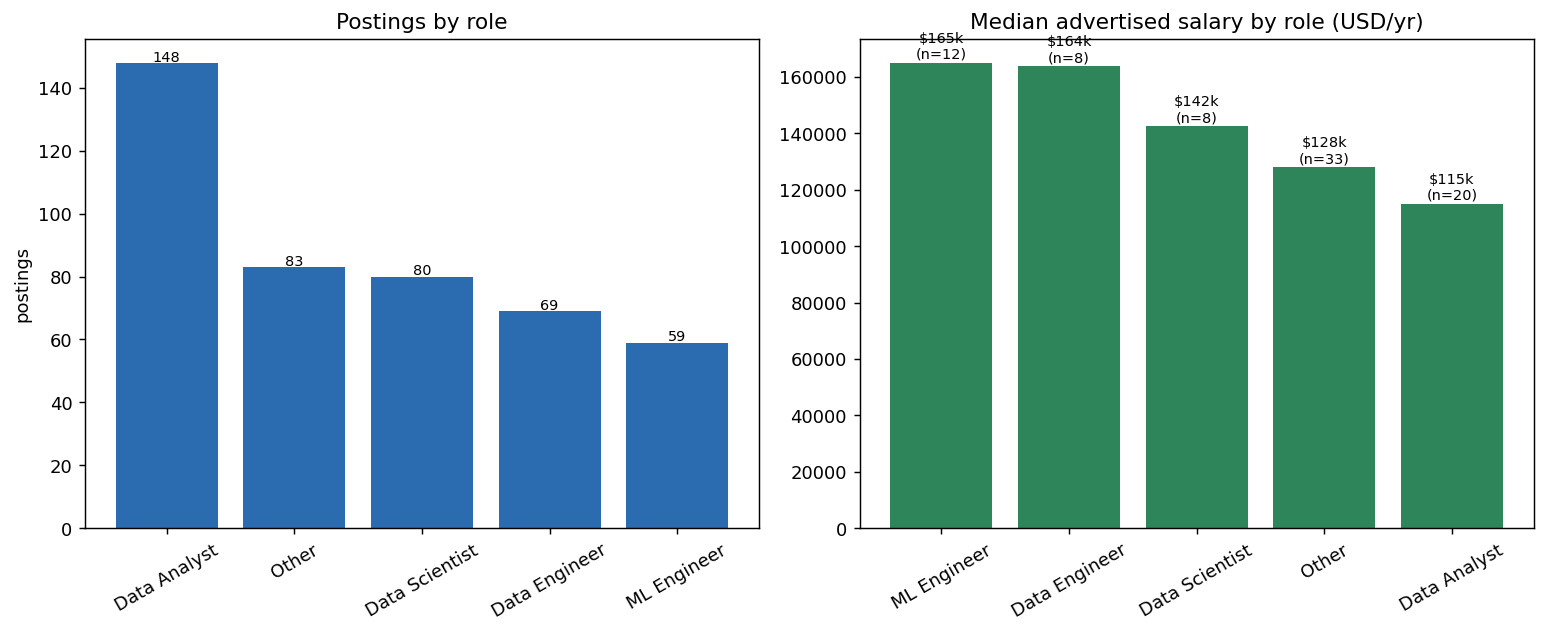
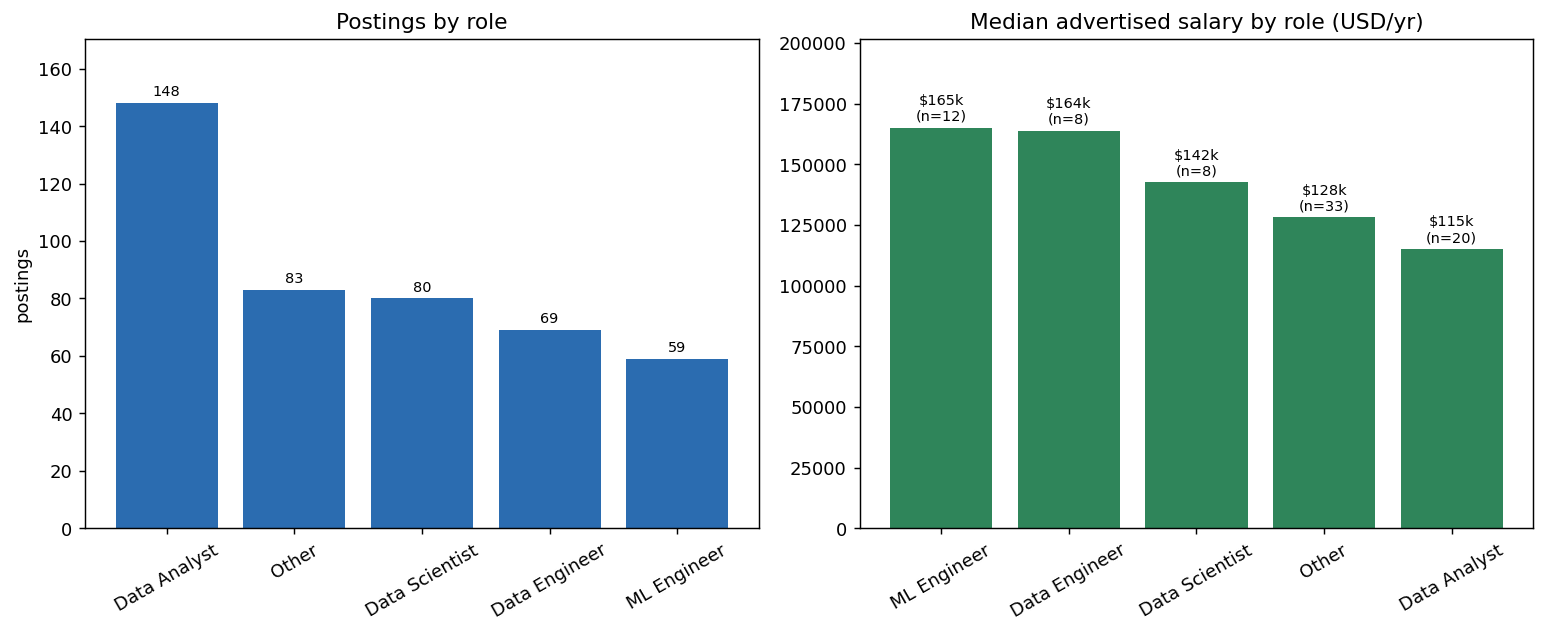
Fix roles chart: add y-axis headroom so value labels fit inside the plot

diff --git a/src/figures.py b/src/figures.py
@@ -84,15 +84,19 @@ def build_roles(jobs):
     ax1.bar(counts.index, counts.values, color=_ACCENT)
     ax1.set_title("Postings by role")
     ax1.set_ylabel("postings")
+    ax1.set_ylim(0, counts.max() * 1.15)  # headroom so labels stay inside the box
     ax1.tick_params(axis="x", rotation=30)
     for x, v in enumerate(counts.values):
-        ax1.text(x, v + 0.5, str(v), ha="center", fontsize=8)
+        ax1.text(x, v + counts.max() * 0.01, str(v), ha="center", va="bottom", fontsize=8)
 
     if not sal.empty:
+        top = sal["median_salary"].max()
         ax2.bar(sal.index, sal["median_salary"], color=_ACCENT2)
         ax2.set_title("Median advertised salary by role (USD/yr)")
+        ax2.set_ylim(0, top * 1.22)  # extra headroom for the two-line labels
         for x, (v, n) in enumerate(zip(sal["median_salary"], sal["n"])):
-            ax2.text(x, v + 1500, f"${v/1000:.0f}k\n(n={n})", ha="center", fontsize=8)
+            ax2.text(x, v + top * 0.01, f"${v/1000:.0f}k\n(n={n})",
+                     ha="center", va="bottom", fontsize=8)
         ax2.tick_params(axis="x", rotation=30)
     else:
         ax2.set_visible(False)
